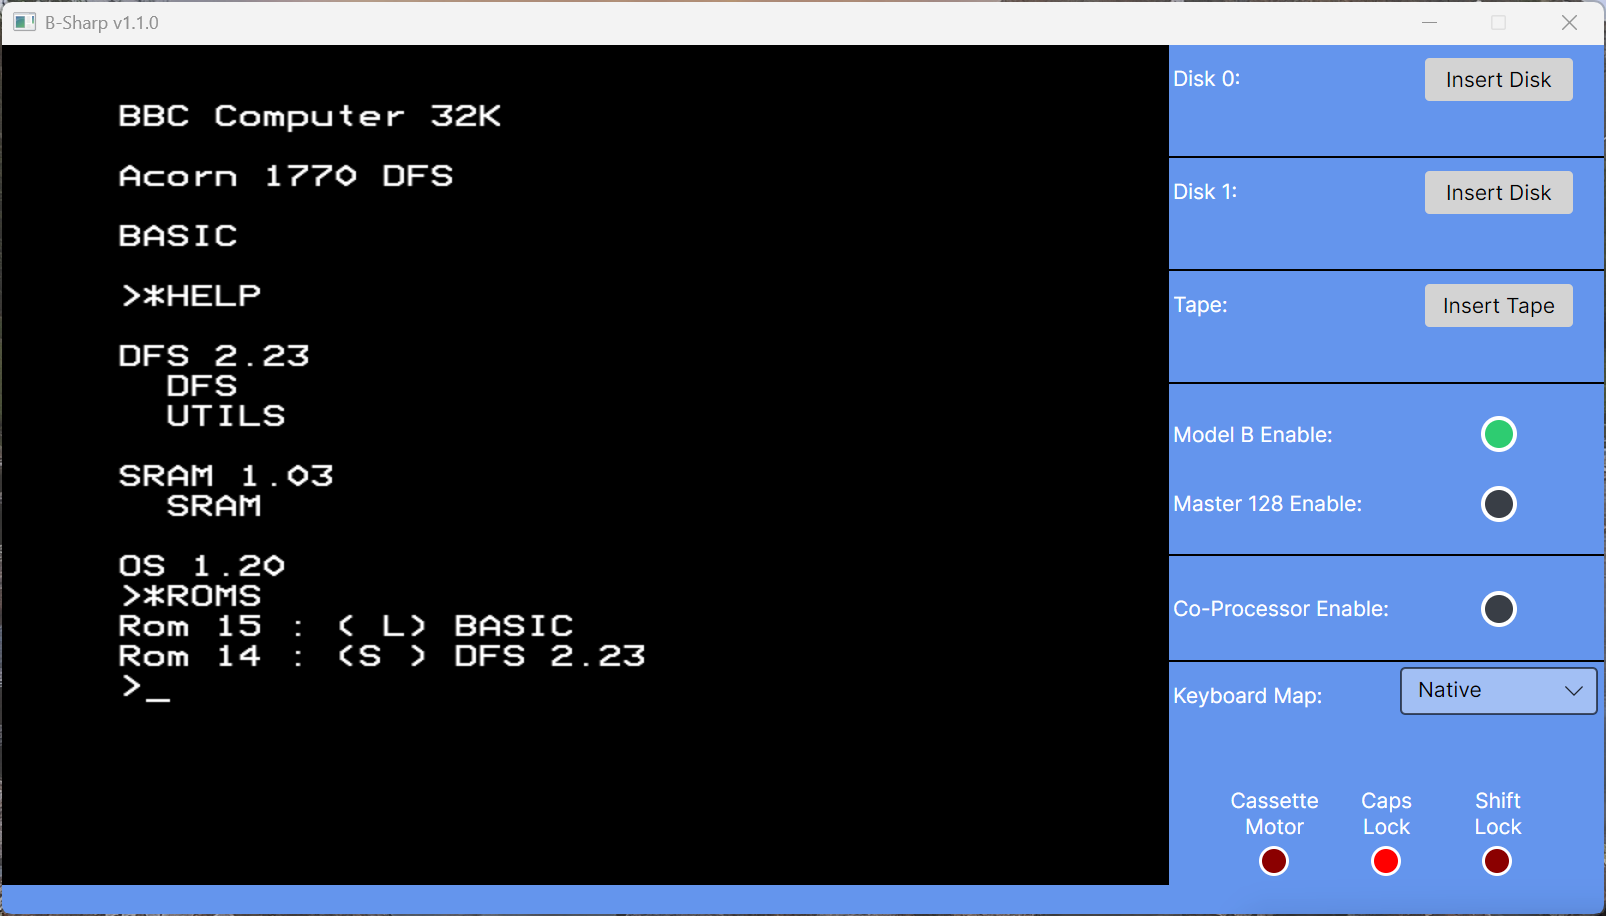
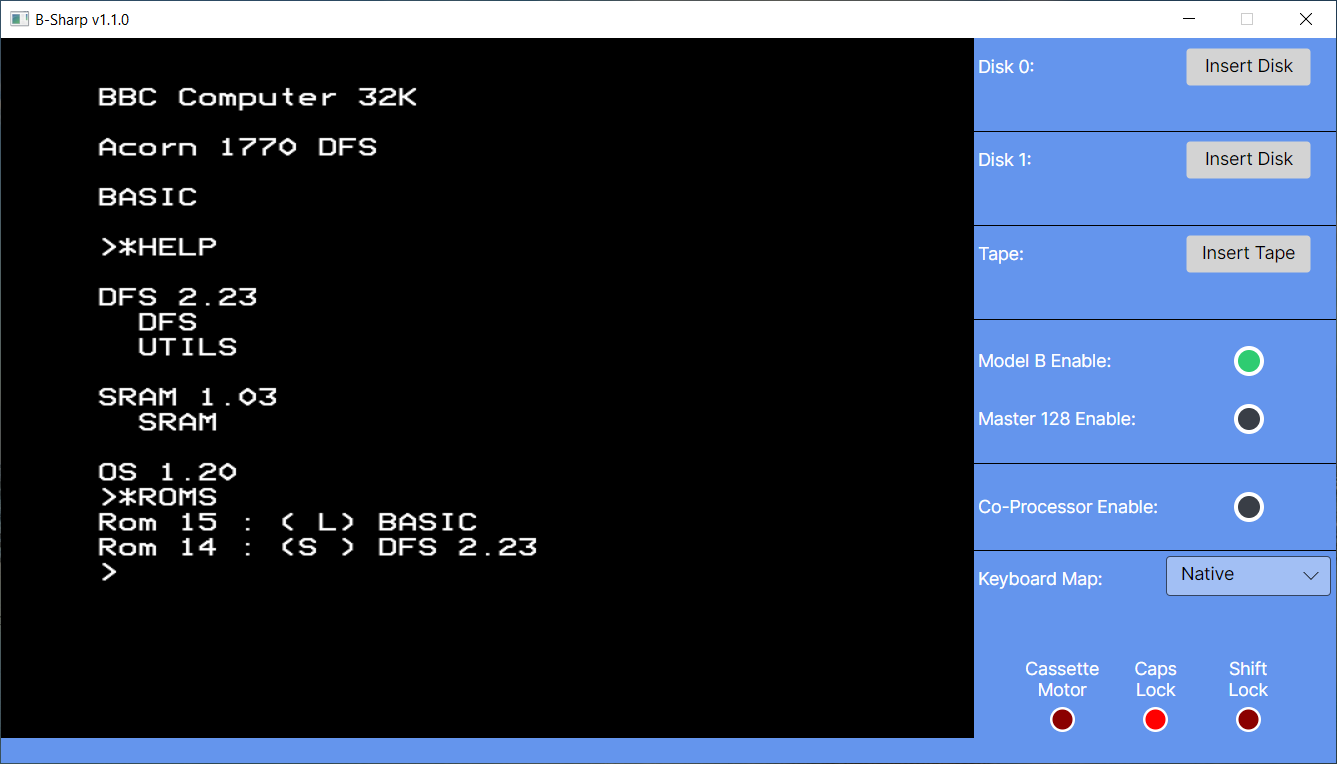
Release 1.1.0 candidate.

diff --git a/README.md b/README.md
@@ -9,7 +9,7 @@ Windows
 <img src="./Images/v1_1_0_Windows.png" alt="Windows" width="534" height="305"/>
 
 and Mac  
-<img src="./Images/v1_0_0_Mac.png" alt="Windows" width="534" height="305"/>
+<img src="./Images/v1_1_0_Mac.png" alt="Windows" width="534" height="305"/>
 
 ## Thanks to:
 Everyone that contributed to the many Stardot forum threads.
